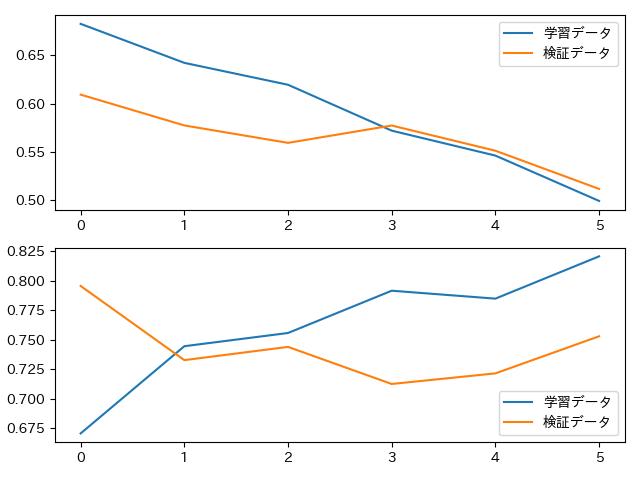
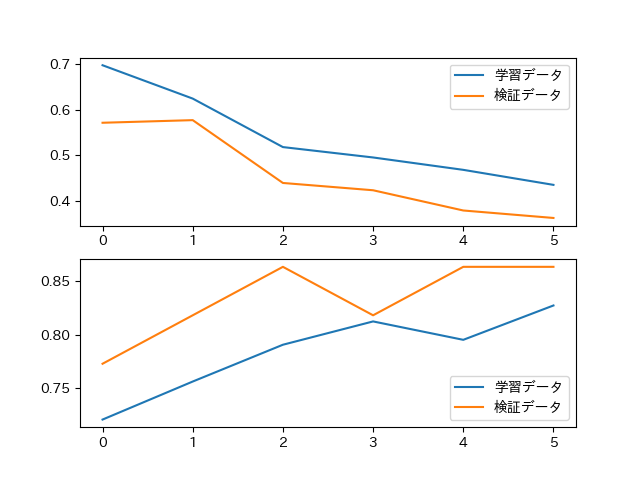
commit

diff --git a/classification/main.py b/classification/main.py
@@ -83,7 +83,7 @@ X = df.drop(columns='Survived')
 y = df[['Survived']]
 
 # 交差検証を行う
-kf = KFold(n_splits = 2)
+kf = KFold(n_splits = 40)
 for train_index, test_index in kf.split(X):
     X_train, X_test = X.iloc[train_index], X.iloc[test_index]
     y_train, y_test = y.iloc[train_index], y.iloc[test_index]
@@ -143,5 +143,5 @@ axes[0].legend(["学習データ", "検証データ"])
 axes[1].plot(accuracy)
 axes[1].plot(val_accuracy)
 axes[1].legend(["学習データ", "検証データ"])
-plt.tight_layout()
+#plt.tight_layout()
 plt.savefig("figure/lossaccuracy.png")
